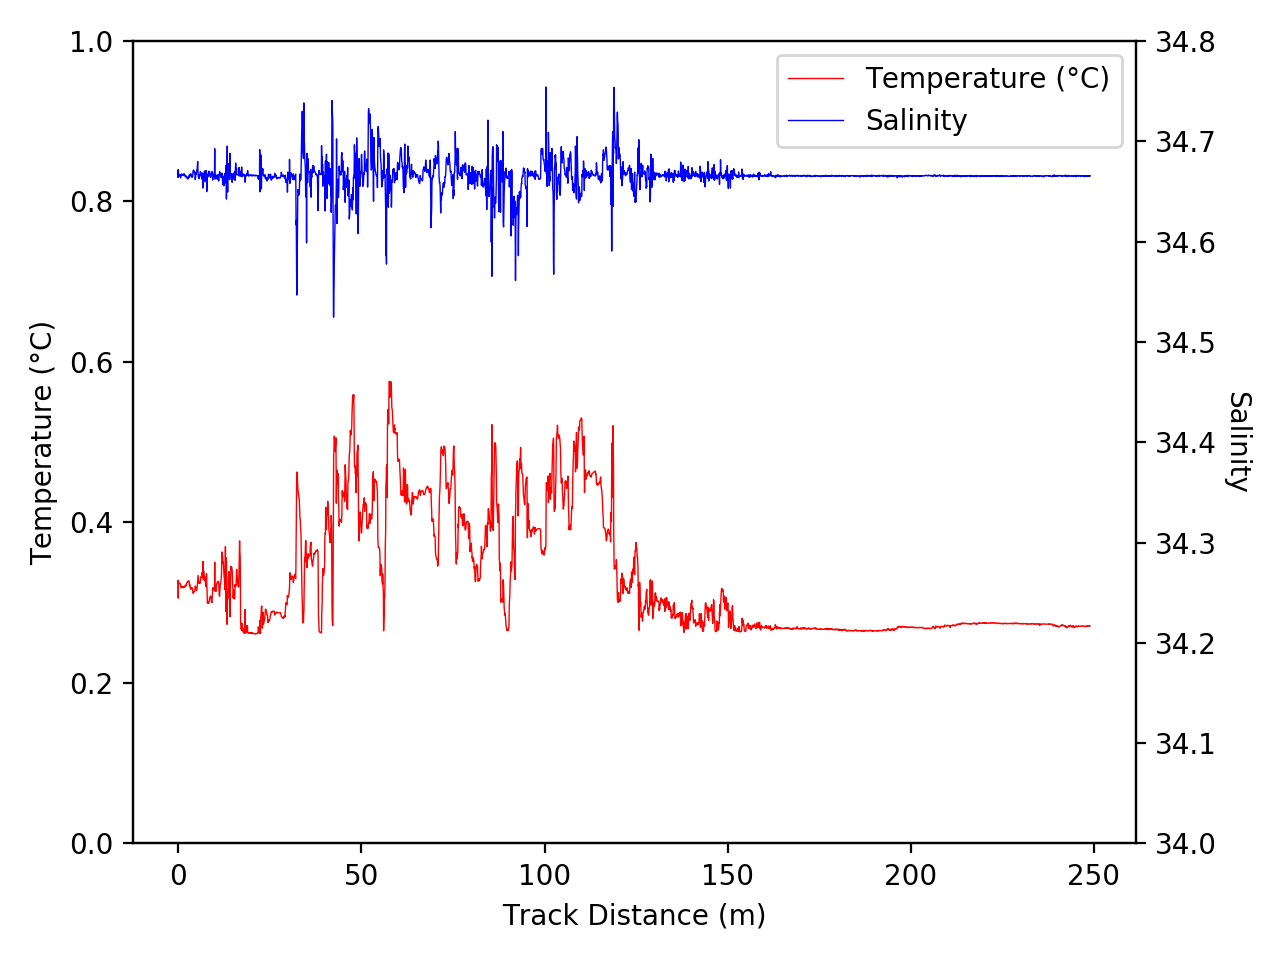
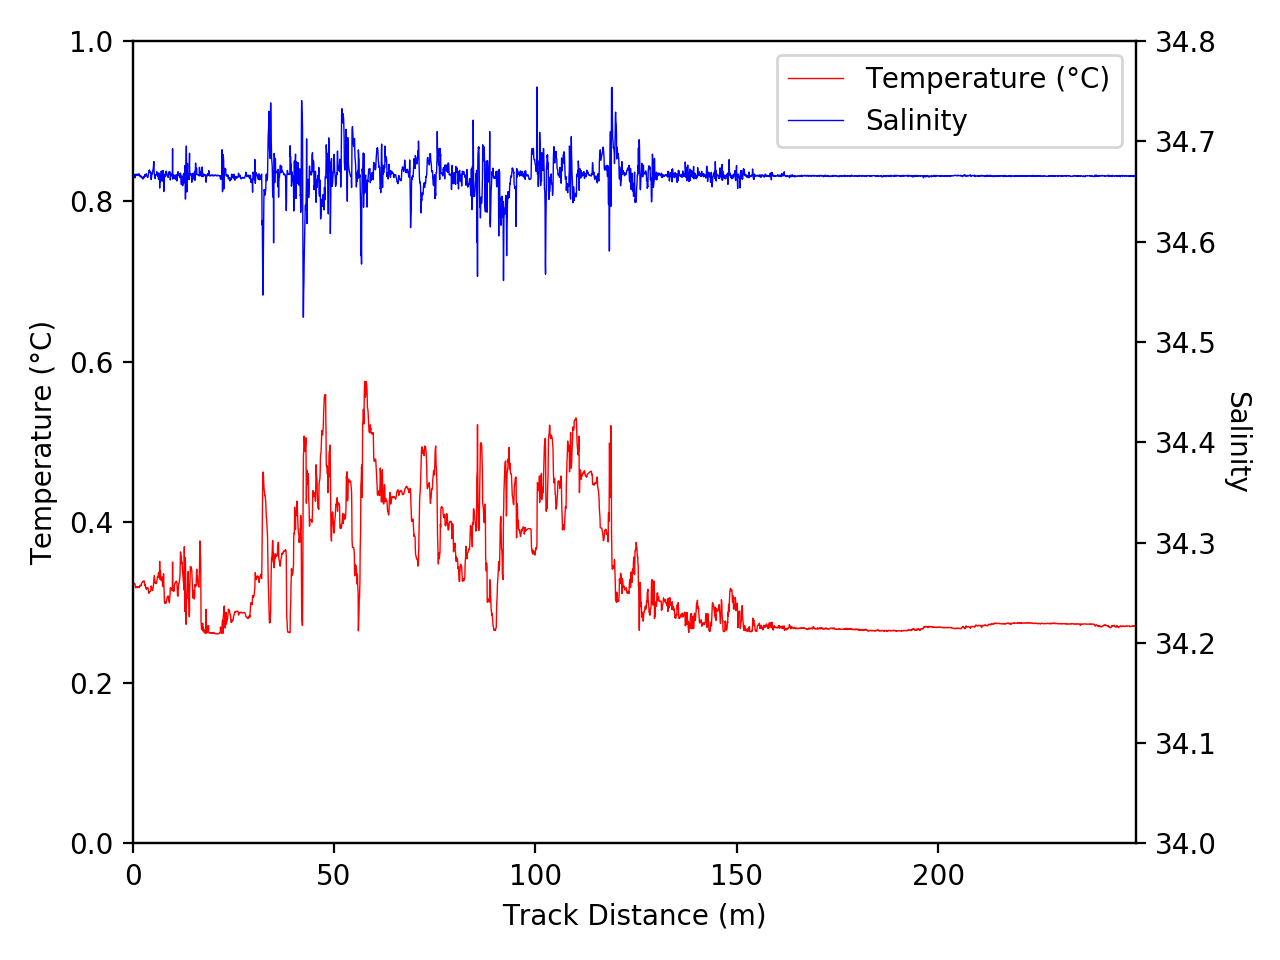
Constrain x axis of temp and salinity plots

diff --git a/EnviroPlot.py b/EnviroPlot.py
@@ -7,15 +7,17 @@ timetosec = np.vectorize(lambda x: (((x.hour * 60) + x.minute) * 60) + x.second)
 # Read data in from the xlsx file as a pandas DataFrame (remove metadata in first 6 rows)
 df = pd.read_excel("SOES6008_coursework_DATA.xlsx", skiprows=6)
 df.columns = ["ActualTime", "VideoTime", "Lat", "Lon", "Dist", "Depth", "Temp", "Salinity"]
+df = df.assign(VideoTimeSecs=timetosec(df["VideoTime"]))
 
 # Plot vs Time
 fig, ax = plt.subplots()
-templine = ax.plot(timetosec(df["VideoTime"]), df["Temp"], "r-", lw=0.5)[0]
+templine = ax.plot(df["VideoTimeSecs"], df["Temp"], "r-", lw=0.5)[0]
 ax.set_ylabel("Temperature (°C)")
 ax.set_xlabel("Video Time (s)")
 ax.set_ylim(0, 1)
+ax.set_xlim(0, max(df["VideoTimeSecs"]))
 ax = ax.twinx()
-salline = plt.plot(timetosec(df["VideoTime"]), df["Salinity"], "b-", lw=0.5)[0]
+salline = plt.plot(df["VideoTimeSecs"], df["Salinity"], "b-", lw=0.5)[0]
 ax.set_ylabel("Salinity", rotation=-90, labelpad=12)
 ax.set_ylim(34, 34.8)
 ax.legend([templine, salline], ["Temperature (°C)", "Salinity"], )
@@ -29,6 +31,7 @@ templine = ax.plot(df["Dist"], df["Temp"], "r-", lw=0.5)[0]
 ax.set_ylabel("Temperature (°C)")
 ax.set_xlabel("Track Distance (m)")
 ax.set_ylim(0, 1)
+ax.set_xlim(0, max(df["Dist"]))
 ax = ax.twinx()
 salline = plt.plot(df["Dist"], df["Salinity"], "b-", lw=0.5)[0]
 ax.set_ylabel("Salinity", rotation=-90, labelpad=12)
